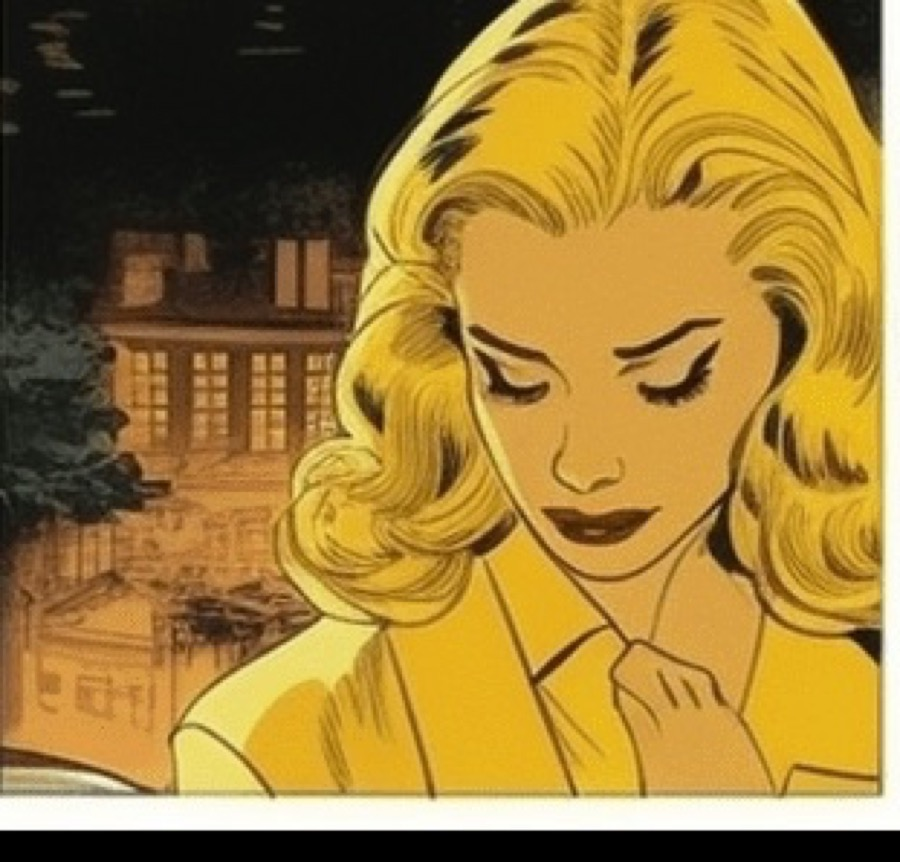
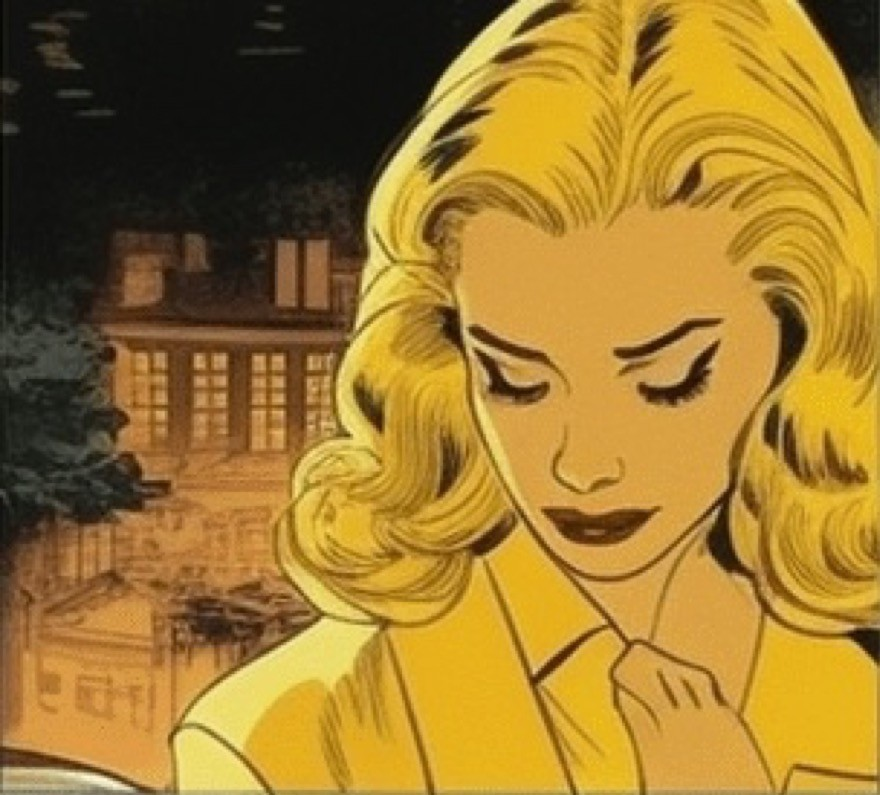
The Precinct: the flawed 2023 pictures come off the site
Eight reference pictures with strange faces or turned-about bodies are
removed from the references and the comic builder's library, along with
three unused ones. The green and red palette samples are remade from the
new places, and one picture loses its stray white edge. A saved comic
that used a removed library picture gets an empty panel back, with its
words and stickers kept.

diff --git a/the-precinct/theme.js b/the-precinct/theme.js
@@ -142,8 +142,6 @@ export default {
     'rain-street':   ['A rain-soaked town street at night: a parked car, a streetlamp and a figure in a doorway', 'setting'],
     'office':        ['An empty office with desks, filing cabinets and a city skyline through the windows', 'setting'],
     'sunset-street': ['A city street at sunset with lit windows, street lamps and a parked black car', 'setting'],
-    'fedora':        ['A stern man in a fedora and trench coat, close-up', 'character', 'commissioner'],
-    'boss':          ['A heavy-set man with slicked-back hair in a suit, glaring', 'character'],
     'novak-card':    ['A young man in round wire-rimmed glasses and a dark fedora, dark suit and tie, a badge on his jacket, a glow of light behind him', 'character', 'detective'],
     'vance-card':    ['A heavy-set older man in a fedora and belted trench coat over a three-piece suit, hands in his pockets, staring coldly out of the dark', 'character', 'commissioner'],
     'vera-card':     ['A woman with shoulder-length platinum-blonde waves, pearl earrings and a black evening gown, looking back over her shoulder with a knowing smile', 'character', 'femme'],
@@ -162,19 +160,13 @@ export default {
     'alley':                ['A wet cobbled alley at night between brick buildings: a fire escape, a back door under a caged lamp, bins, crates and a steaming grate', 'setting'],
     'street-corner':        ['A rainy city street at night: a tall street lamp, a parked sedan, shopfronts with awnings, a telephone box and towers in the mist', 'setting'],
     'docks':                ['A foggy quay at night: a wooden warehouse with one wall lamp, crates and rope, iron bollards, a cargo crane and the hull of a ship', 'setting'],
-    'rourke-front':  ['A huge muscular man in shirtsleeves and braces, a holster at his side and a jacket over his shoulder, scowling', 'character', 'disillusioned'],
-    'rourke-snarl':  ['Close-up of a dark-haired man baring his teeth around a cigarette, face half in shadow', 'character', 'disillusioned'],
     'rourke-rage':   ['A stubbled man snarling with rage, a matchstick clamped in his teeth', 'character', 'disillusioned'],
     'rourke-sheet':  ['A character sheet for Frank Rourke: front, side and back views, and five expressions from lazy smirk to flicker of conscience', 'character', 'disillusioned'],
     'cop-badge':     ['A square-jawed man in a hat with a badge on his coat, light flaring behind him', 'character', 'detective'],
     'lamp-man':      ['A man in a suit under a street lamp against a yellow sky', 'character', 'detective'],
-    'blue-man':      ['A man in a dark coat looking back down a blue night street', 'character'],
     'houses':        ['A street of old houses under a yellow sky, a man walking and a parked car', 'setting'],
-    'green-city':    ['A man on a balcony with a green-tinted city skyline behind him', 'setting'],
-    'walking-woman': ['A woman in a yellow coat walking past parked cars at dusk', 'character'],
     'teal-woman':    ['A woman with long wavy hair in teal and blue tones, looking sideways', 'character'],
     'detective-car': ['A detective in a fedora glancing back at a sedan on a rainy street', 'character', 'detective'],
-    'sunset-man':    ['A man in a hat and coat against a red-orange sunset', 'character'],
     'walking-rain':  ['A man walking alone along a wet pavement in blue rain', 'setting'],
     'hat-green':     ['A man in a fedora and tie under city lights, in green tones', 'character'],
   },
@@ -415,10 +407,10 @@ export default {
   // Pictures offered in the comic builder's library.
   // The places come first: they are the ones the stickers are drawn to stand in.
   library: ['ziggurat','ziggurat-outside','precinct-steps','squad-room','commissioners-office','interview-room','newsroom','alley','street-corner','docks',
-    'chief','hat-woman','cop','bar','blonde-green','blonde-yellow','rain-street','office','sunset-street','fedora','boss',
-    'cop-badge','lamp-man','blue-man','houses','green-city','walking-woman','teal-woman','detective-car','sunset-man',
+    'chief','hat-woman','cop','bar','blonde-green','blonde-yellow','rain-street','office','sunset-street',
+    'cop-badge','lamp-man','houses','teal-woman','detective-car',
     'walking-rain','hat-green','novak-card','vance-card','rourke-card','vera-card','hattie-card','tommy-card','charlotte-card',
-    'rourke-front','rourke-snarl','rourke-rage','rourke-sheet'],
+    'rourke-rage','rourke-sheet'],
 
   // Colours for captions, balloons, thoughts and sound effects in the comic builder, taken from the palettes above.
   // fill: the box (or a sound effect's letters); text: the words; line: the outline.

diff --git a/the-precinct/builder/index.html b/the-precinct/builder/index.html
@@ -382,6 +382,8 @@ import THEME from '/the-precinct/theme.js';
   function migrate(){
     // Pages from before styles had a layout (grid6, splash...); styles bring their own panels now.
     if (!STYLE_KEYS_ORDER.includes(S.style)) S.style = 'williamson';
+    // A library picture that has since been taken off the site: the panel goes back to empty, its words and stickers stay.
+    S.panels.concat(S.prose).forEach(p => { if (p.img && p.img.lib && !LIB.includes(p.img.lib)) p.img = null; });
     S.panels.forEach(p => p.items.forEach(it => {
       if ((it.type === 'speech' || it.type === 'thought') && !it.tip) {
         it.tip = { x: it.tail === 'br' ? 8 : -8, y: it.type === 'speech' ? 5.5 : 7 };
